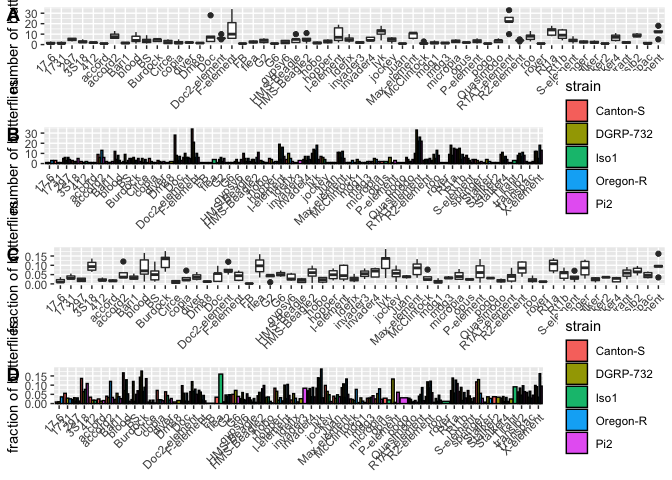
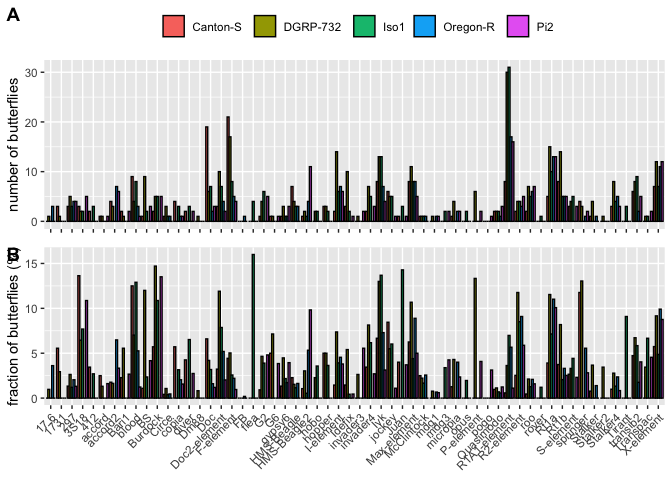
improved plot

diff --git a/rmd-scripts/supp_butterfly-heterogeneity.md b/rmd-scripts/supp_butterfly-heterogeneity.md
@@ -26,18 +26,18 @@ library(dplyr)
 library(ggplot2)
 library(ggpubr)
 
-th=15
+th=5
 
 #butterfly signatures:
-b1<-read.table("/Volumes/Temp3/filip/trap_model/butterfly/filtered-reads/map/other-parameter/TE/Canton-S_w500.txt")
+b1<-read.table("/Volumes/Temp3/filip/trap_model/butterfly/filtered-reads/map/output-V3/TE/Canton-S_w500.txt")
 names(b1)<-c("TE","chr","start","end","ls","la","rs","ra","strain")
-b2<-read.table("/Volumes/Temp3/filip/trap_model/butterfly/filtered-reads/map/other-parameter/TE/DGRP-732_w500.txt")
+b2<-read.table("/Volumes/Temp3/filip/trap_model/butterfly/filtered-reads/map/output-V3/TE/DGRP-732_w500.txt")
 names(b2)<-c("TE","chr","start","end","ls","la","rs","ra","strain")
-b3<-read.table("/Volumes/Temp3/filip/trap_model/butterfly/filtered-reads/map/other-parameter/TE/Iso1_w500.txt")
+b3<-read.table("/Volumes/Temp3/filip/trap_model/butterfly/filtered-reads/map/output-V3/TE/Iso1_w500.txt")
 names(b3)<-c("TE","chr","start","end","ls","la","rs","ra","strain")
-b4<-read.table("/Volumes/Temp3/filip/trap_model/butterfly/filtered-reads/map/other-parameter/TE/Oregon-R_w500.txt")
+b4<-read.table("/Volumes/Temp3/filip/trap_model/butterfly/filtered-reads/map/output-V3/TE/Oregon-R_w500.txt")
 names(b4)<-c("TE","chr","start","end","ls","la","rs","ra","strain")
-b5<-read.table("/Volumes/Temp3/filip/trap_model/butterfly/filtered-reads/map/other-parameter/TE/Pi2_w500.txt")
+b5<-read.table("/Volumes/Temp3/filip/trap_model/butterfly/filtered-reads/map/output-V3/TE/Pi2_w500.txt")
 names(b5)<-c("TE","chr","start","end","ls","la","rs","ra","strain")
 
 #cluster annotations to exclude from butterfly signatures:
@@ -234,8 +234,28 @@ infoP<-subset(info1,select=c("name","AF"))
 infoP$AF<-round(infoP$AF,digits = 1)
 names(infoP)<-c("TE","AF")
 
+#####add missing data as 0s:
+infoTE<-as.data.frame(info$TE)
+names(infoTE)<-c("TE")
+TE1m<-anti_join(infoTE,TE1,by="TE")
+TE1m$strain<-c("Canton-S")
+TE1m$sum<-c(0)
 
+TE2m<-anti_join(infoTE,TE2,by="TE")
+TE2m$strain<-c("DGRP-732")
+TE2m$sum<-c(0)
 
+TE3m<-anti_join(infoTE,TE3,by="TE")
+TE3m$strain<-c("Iso1")
+TE3m$sum<-c(0)
+
+TE4m<-anti_join(infoTE,TE4,by="TE")
+TE4m$strain<-c("Oregon-R")
+TE4m$sum<-c(0)
+
+TE5m<-anti_join(infoTE,TE5,by="TE")
+TE5m$strain<-c("Pi2")
+TE5m$sum<-c(0)
 #average across assemblies:
 t<-rbind(TE1,TE2,TE3,TE4,TE5)
 
@@ -258,10 +278,10 @@ for (sid in unique(t$id2)) {
   a = nrow(subset(t,id2==sid))
   t$sum[i] = a
 }
-TEsum<-subset(t,select=c("strain","TE","sum"))
+TEsum<-subset(t,select=c("TE","strain","sum"))
 TEsum<-unique(TEsum)
 
-bT<-TEsum
+bT<-rbind(TEsum,TE1m,TE2m,TE3m,TE4m,TE5m)
 
 
 
@@ -313,9 +333,15 @@ bT$id<-paste(bT$strain,bT$TE,sep = "_")
 abT$id<-paste(abT$strain,abT$TE,sep = "_")
 
 
-frac<-inner_join(bT,abT,by="id")
+frac<-left_join(bT,abT,by="id")
 frac$rel<-frac$sum.x/frac$sum.y
+frac[is.na(frac)] <- 0
+```
 
+    ## Warning in `[<-.factor`(`*tmp*`, thisvar, value = 0): invalid factor level, NA
+    ## generated
+
+``` r
 frac<-subset(frac,select=c("strain.x","TE.x","rel","sum.x"))
 names(frac)<-c("strain","TE","rel","sum")
 
@@ -324,26 +350,33 @@ names(TEname)<-c("TE","abbr","family")
 
 frac<-left_join(frac,TEname,by="TE")
 
+for (sid in unique(frac$TE)) { 
+  i <- frac$TE == sid
+  a = sum(frac$sum[i])
+  frac$sumsum[i] = a
+}
+
+frac<-subset(frac,sumsum!=0)
 
 abs<-ggplot(frac, aes(x=family, y=sum))+geom_boxplot() 
 abs<-abs+theme(axis.text.x = element_text(angle = 45,hjust=1),axis.title.x=element_blank())+ylab("number of butterflies")
 
-ga<-ggplot(frac,aes(x=family,y=sum,fill=strain))+geom_bar(stat="identity",position="dodge",color="black")+ylab("number of butterflies")+theme(axis.text.x = element_text(angle = 45,hjust=1),axis.title.x=element_blank())
+ga<-ggplot(frac,aes(x=family,y=sum,fill=strain))+geom_bar(stat="identity",position="dodge",color="black")+ylab("number of butterflies")+theme(axis.title.x=element_blank(),axis.text.x=element_blank(),legend.position="top",legend.title = element_blank())
 
 rel<-ggplot(frac, aes(x=family, y=rel))+geom_boxplot() 
 rel<-rel+theme(axis.text.x = element_text(angle = 45,hjust=1),axis.title.x=element_blank())+ylab("fraction of butterflies")
 
-gr<-ggplot(frac,aes(x=family,y=rel,fill=strain))+geom_bar(stat="identity",position="dodge",color="black")+ylab("fraction of butterflies")+theme(axis.text.x = element_text(angle = 45,hjust=1),axis.title.x=element_blank())
+gr<-ggplot(frac,aes(x=family,y=rel*100,fill=strain))+geom_bar(stat="identity",position="dodge",color="black")+ylab("fraction of butterflies (%)")+theme(axis.text.x = element_text(angle = 45,hjust=1),axis.title.x=element_blank(),legend.position="None")
 
-g<-ggarrange(abs,ga, rel,gr,
-             labels = c("A", "B","C","D"),
-             ncol = 1, nrow = 4)
+g<-ggarrange(ga,gr,
+             labels = c("A", "B"),
+             ncol = 1, nrow = 2)
 plot(g)
 ```
 
 ![](supp_butterfly-heterogeneity_files/figure-gfm/unnamed-chunk-1-1.png)<!-- -->
 
 ``` r
-ggsave("/Users/filipwierzbicki/Desktop/trap_model/analysis/abu/figures/butterfly-heterogeneity.pdf",width=12,height=10)
-ggsave("/Users/filipwierzbicki/Desktop/trap_model/analysis/abu/figures/butterfly-heterogeneity.png",width=12,height=10)
+ggsave("/Users/filipwierzbicki/Desktop/trap_model/analysis/abu/figures/butterfly-heterogeneity.pdf",width=12,height=6)
+ggsave("/Users/filipwierzbicki/Desktop/trap_model/analysis/abu/figures/butterfly-heterogeneity.png",width=12,height=6)
 ```
